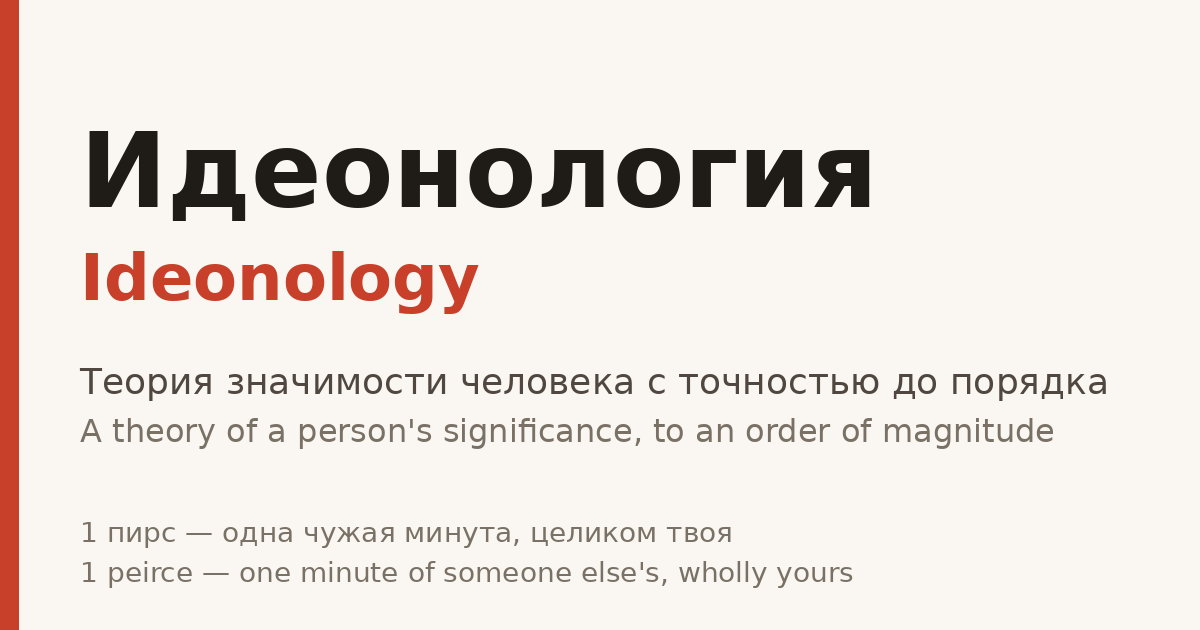
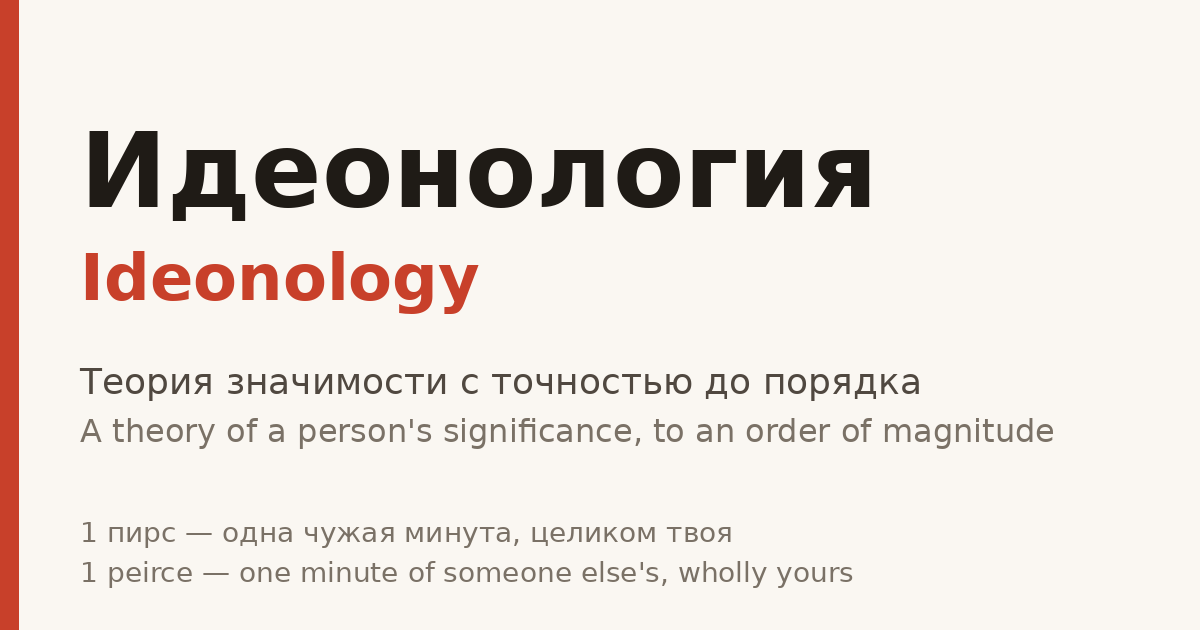
ru tagline: drop 'человека' (title and og.png)

Changed region(s): [[0.37, 0.573, 0.925, 0.6333]]

diff --git a/docs/ru/index.html b/docs/ru/index.html
@@ -3,7 +3,7 @@
 <head>
 <meta charset="utf-8">
 <meta name="viewport" content="width=device-width, initial-scale=1">
-<title>Идеонология — теория значимости человека</title>
+<title>Идеонология — теория значимости</title>
 <meta name="description" content="Идеонология — теория значимости человека, в которой значимость оцениваема с точностью до порядка: сколько чужой мысли ты сдвинул. Идеон, пирс, Вита, паритет.">
 <link rel="canonical" href="https://komapc.github.io/ideon/ru/">
 <link rel="alternate" hreflang="ru" href="https://komapc.github.io/ideon/ru/">

diff --git a/build.py b/build.py
@@ -11,7 +11,7 @@ CONTENT, DOCS, TPL = ROOT / "content", ROOT / "docs", ROOT / "templates"
 BASE = "https://komapc.github.io/ideon/"
 SITE = {"ru": "Идеонология", "en": "Ideonology"}
 LOCALE = {"ru": "ru_RU", "en": "en_US"}
-TAGLINE = {"ru": "теория значимости человека", "en": "a theory of a person's significance"}
+TAGLINE = {"ru": "теория значимости", "en": "a theory of a person's significance"}
 OG_IMAGE = f"{BASE}og.png"
 DESC = {"ru": "Теория значимости человека, в которой значимость оцениваема с точностью до порядка: идеон, пирс, Вита, паритет.",
         "en": "A theory of a person's significance in which significance can be estimated to an order of magnitude: ideon, peirce, Vita, parity."}
